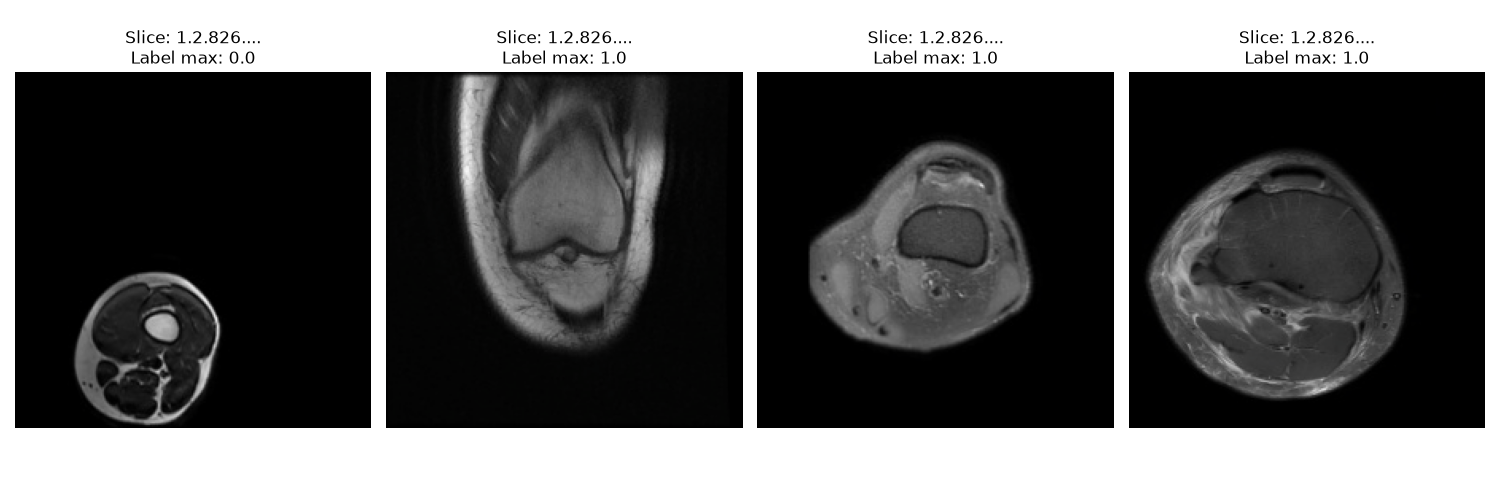
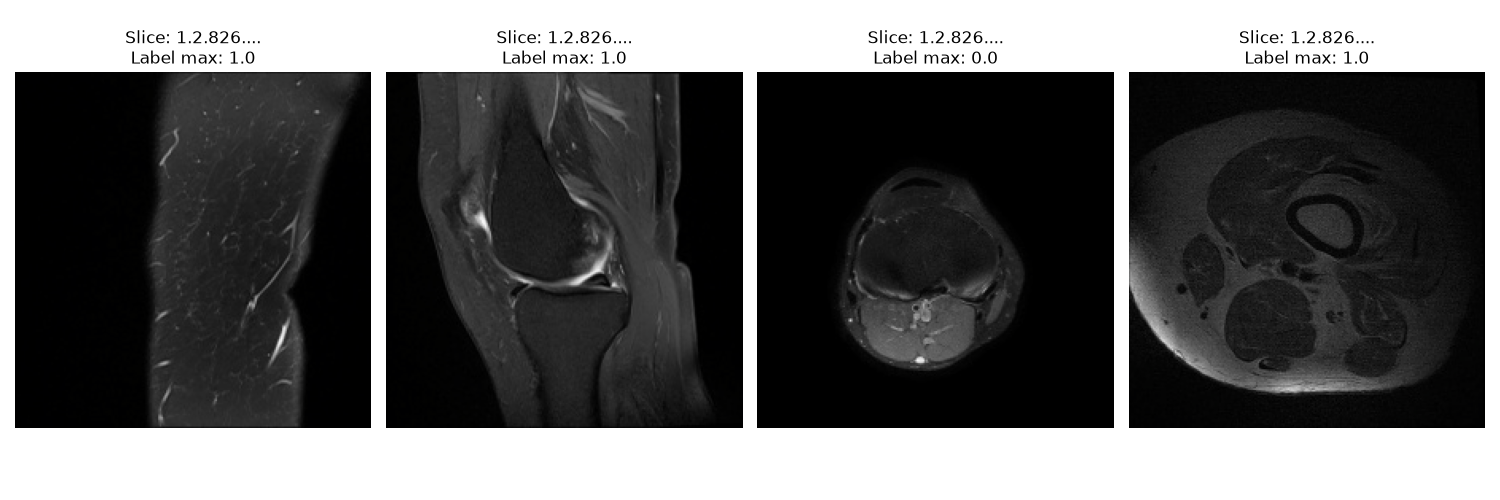
week 3 n 4

diff --git a/data/week_4_grad_cam_visualizer.py b/data/week_4_grad_cam_visualizer.py
@@ -62,7 +62,7 @@ if __name__ == "__main__":
     print("Initializing Grad-CAM Interpretability Module...")
     
     device = torch.device("cuda" if torch.cuda.is_available() else "mps" if torch.backends.mps.is_available() else "cpu")
-    num_classes = 10 
+    num_classes = 12
     
     # 1. Load Model
     model = models.resnet50()
